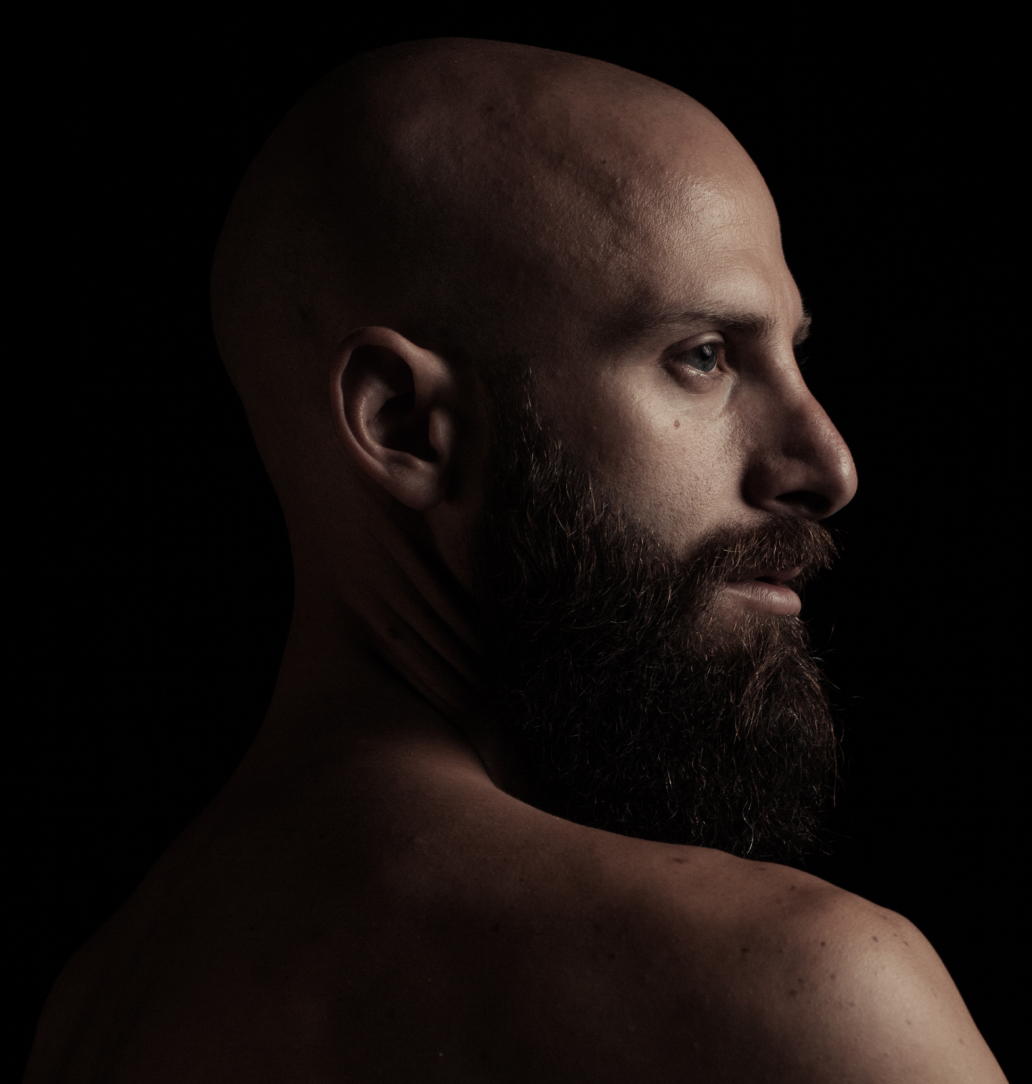
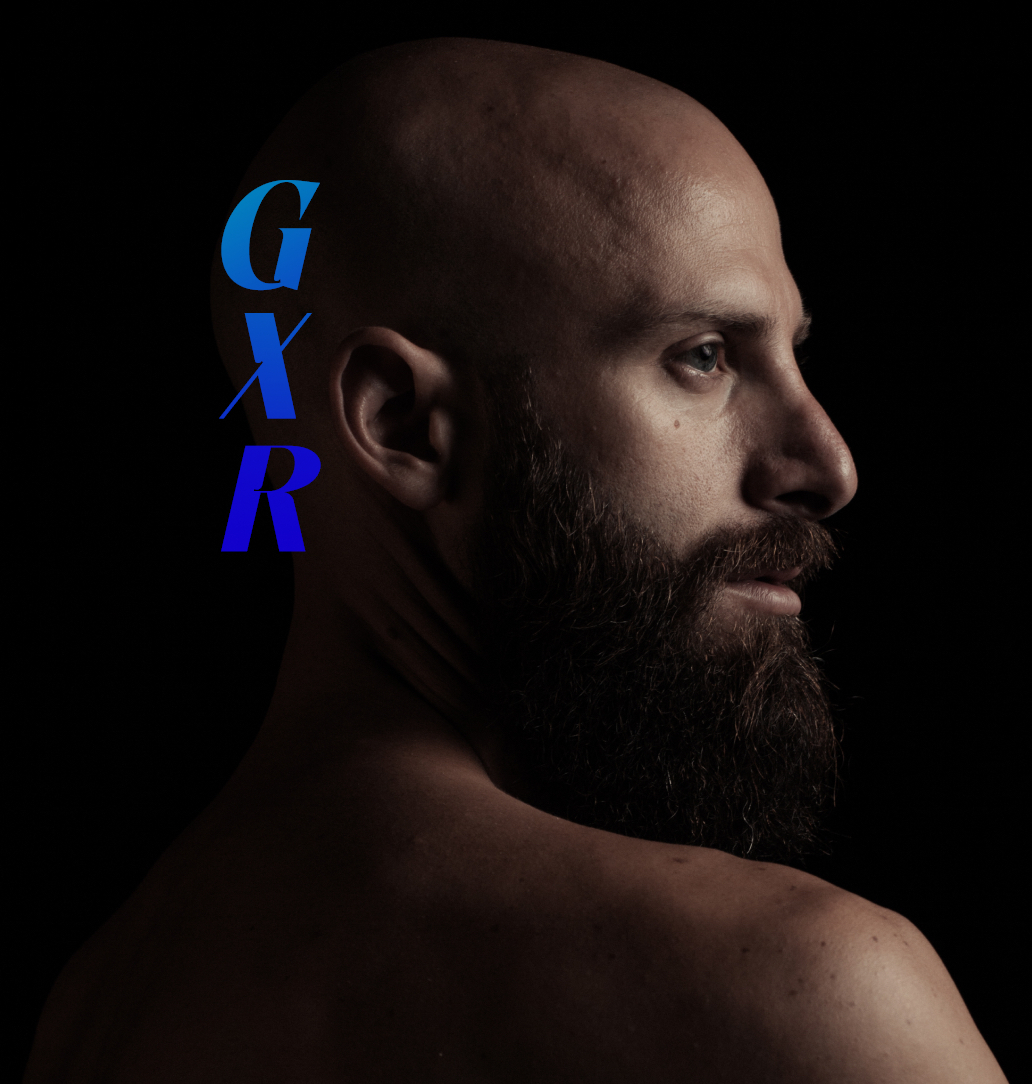
update homepage styles  + jsx

Changed region(s): [[0.2171, 0.1522, 0.3101, 0.5175]]

diff --git a/src/pages/Homepage/Homepage.jsx b/src/pages/Homepage/Homepage.jsx
@@ -2,11 +2,15 @@ import {
   MouseParallaxContainer,
   MouseParallaxChild,
 } from "react-parallax-mouse";
+import { Link } from "react-router-dom";
 
 import gxrBackground from "../../assets/images/gxr-background.jpg";
 import gxrLeft1 from "../../assets/images/gxr-left-1.png";
 import gxrLeft2 from "../../assets/images/gxr-left-2.png";
 import gxrLeft3 from "../../assets/images/gxr-left-3.png";
+import gxrLogo from "../../assets/images/gxr-logo.png";
+import gxrPop from "../../assets/images/gxr-pop.png";
+import gxrPpp from "../../assets/images/gxr-ppp.png";
 import gxrRight1 from "../../assets/images/gxr-right-1.png";
 
 import "./Homepage.scss";
@@ -26,25 +30,47 @@ const Homepage = () => {
             factorX={0.3}
             factorY={0.3}
           >
-            <div className="homepage__left-group">
-              <img className="homepage__img-1" src={gxrLeft1} alt="" />
-              <img className="homepage__img-2" src={gxrLeft2} alt="" />
-              <img className="homepage__img-3" src={gxrLeft3} alt="" />
-            </div>
+            <Link to="/publicprivateparts">
+              <div className="homepage__left-group">
+                <img className="homepage__img-1" src={gxrLeft1} alt="" />
+                <div>
+                  <img className="homepage__img-2" src={gxrLeft2} alt="" />
+                  {/* <img className="homepage__logo--ppp" src={gxrPpp} alt="" /> */}
+                </div>
+                <img className="homepage__img-3" src={gxrLeft3} alt="" />
+              </div>
+            </Link>
           </MouseParallaxChild>
           <MouseParallaxChild
             className="homepage__parallax-child"
             factorX={0.3}
             factorY={0.3}
           >
-            <img className="homepage__img-4" src={gxrRight1} alt="" />
+            <Link to="/principleofpleasure">
+              <div>
+                <img className="homepage__img-4" src={gxrRight1} alt="" />
+                {/* <img className="homepage__logo--pop" src={gxrPop} alt="" /> */}
+              </div>
+            </Link>
           </MouseParallaxChild>
         </MouseParallaxContainer>
-        <img
-          className="homepage__background"
-          src={gxrBackground}
-          alt="GXR homepage background"
-        />
+        <div className="homepage__mobile-links">
+          <Link to="/publicprivateparts">
+            <img className="homepage__logo--mobile" src={gxrPpp} alt="" />
+          </Link>
+          <Link to="/principleofpleasure">
+            <img className="homepage__logo--mobile" src={gxrPop} alt="" />
+          </Link>
+        </div>
+
+        <div className="homepage__background-container">
+          <img
+            className="homepage__background"
+            src={gxrBackground}
+            alt="GXR homepage background"
+          />
+          <img className="homepage__logo" src={gxrLogo} alt="" />
+        </div>
       </div>
     </div>
   );

diff --git a/src/pages/Homepage/Homepage.scss b/src/pages/Homepage/Homepage.scss
@@ -16,6 +16,11 @@
         width: 100%;
     }
 
+    &__background-container {
+        position: relative;
+    }
+
+
     &__container {
         display: flex;
         max-width: 1440px;
@@ -45,6 +50,28 @@
         width: 280px;
     }
 
+    &__logo {
+        position: absolute;
+        top: 0;
+        left: 0;
+    }
+
+    &__logo--mobile {
+        max-width: 150px;
+        width: 100%;
+    }
+
+    &__mobile-links {
+        align-items: center;
+        display: none;
+        flex-direction: row;
+        height: 50vh;
+        justify-content: space-evenly;
+        margin-top: $space-md;
+        width: 100%;
+        z-index: 1;
+    }
+
     &__parallax-container {
         display: grid;
         grid-template-columns: auto auto;
@@ -70,5 +97,13 @@
         &__parallax-container {
             display: none;
         }
+    }
+
+    @media (max-width: 425px) {
+        &__mobile-links {
+            display: flex;
+            flex-direction: column;
+        }
+    
     }
 }
